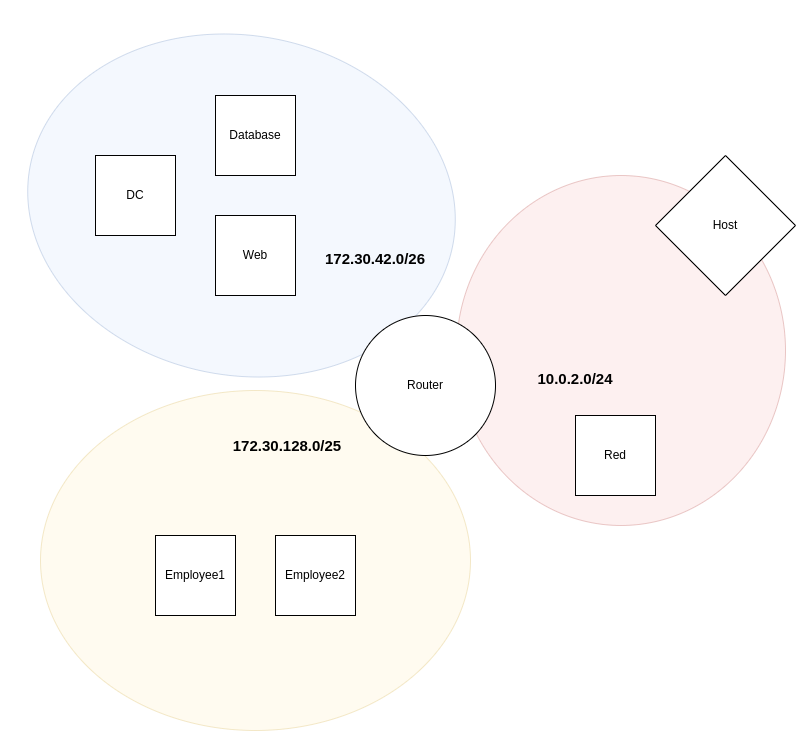
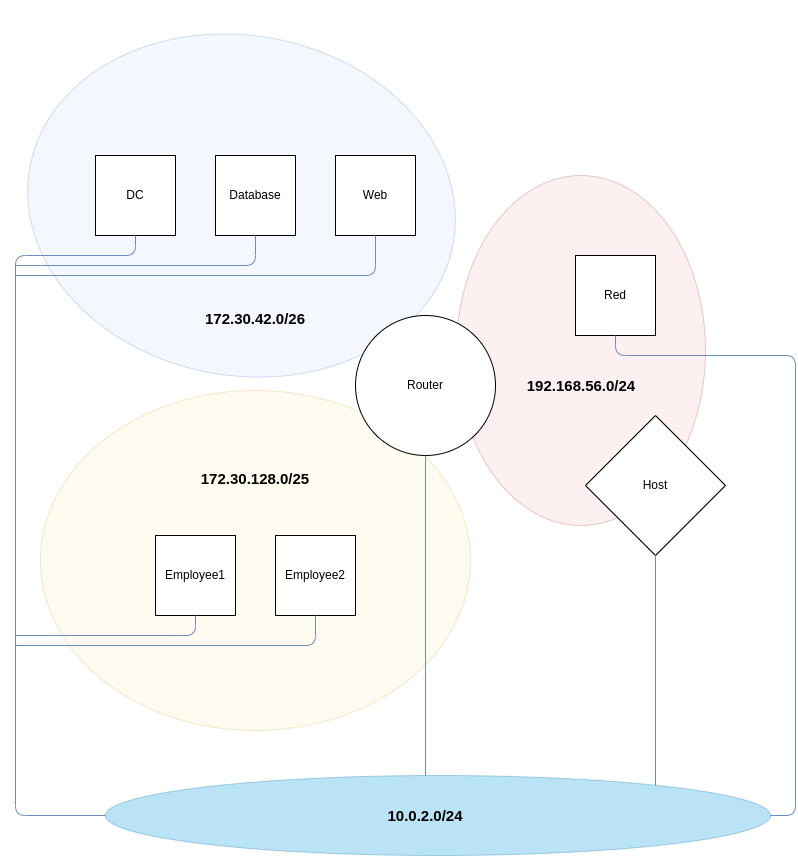
Updated documentation

diff --git a/README.md b/README.md
@@ -22,7 +22,7 @@ The network consists of 2 company-LANs, attached to a router:
     * Addresses in network    - 64
     * Network range           - 172.30.42.0 - 172.30.42.63
     * Usable range            - 172.30.42.1 - 172.30.42.62
-* a LAN network for the employees - 172.30.128.0/25: DHCP + DNS for these networks is provided by the router.
+* a LAN network for the employees - 172.30.128.0/25: DHCP for these networks is provided by the router. This network is located behind a NAT.
     * Network address         - 172.30.128.0
     * Network mask            - 255.255.255.128
     * Network mask (bits)     - 25
@@ -31,8 +31,18 @@ The network consists of 2 company-LANs, attached to a router:
     * Network range           - 172.30.128.0 - 172.30.128.127
     * Usable range            - 172.30.128.1 - 172.30.128.126
 
-The router itself also has an uplink to the Host OS. It is considered as the WAN entry point of the company network. This host-only network can also be used to connect a Kali VM to attack the company premises. DHCP is coming from VirtualBox for this network.
-* WAN network: 10.0.2.0/24
+The router itself also has an uplink to the host OS. It is considered as the WAN entry point of the company network. This host-only network can also be used to connect a Kali VM to attack the company premises. DHCP is coming from VirtualBox for this network.
+* 192.168.56.0/24: DHCP is provided by the WAN provider
+    * Network address         - 192.168.56.0
+    * Network mask            - 255.255.255.0
+    * Network mask (bits)     - 24
+    * Broadcast address       - 192.168.56.255
+    * Addresses in network    - 256
+    * Network range           - 192.168.56.0 - 192.168.56.255
+    * Usable range            - 192.168.56.1 - 192.168.56.254
+
+VirtualBox also provides a management network, so the hosts can download software from the internet and are accessible by SSH. This network is located behind a NAT.
+* Management network: 10.0.2.0/24
     * Network address         - 10.0.2.0
     * Network mask            - 255.255.255.0
     * Network mask (bits)     - 24
@@ -43,17 +53,17 @@ The router itself also has an uplink to the Host OS. It is considered as the WAN
 
 ## Machines overview
 
-Name      | Network   | IP                | prefixlength  | default gateway | Remarks
---------- | --------- | ----------------- | ------------- | --------------- | ---
-router    | outside   | DHCP              | 24            | ???             | Router of the environment
-router    | servers   | 172.30.42.1       | 26            | ???             | ^
-router    | employees | 172.30.128.1      | 25            | ???             | ^
-web       | servers   | 172.30.42.2       | 26            | 172.30.42.1     | Webserver
-database  | servers   | 172.30.42.3       | 26            | 172.30.42.1     | Lightweight MySQL Database
-employee1 | employees | DHCP              | 25            | 172.30.128.1    | Ubuntu
-red       | employees | DHCP              | 25            | 172.30.128.1    | Kali outside the network
-dc        | servers   | 172.30.42.4       | 26            | 172.30.42.1     | Windows AD server core with domain
-employee2 | employees | DHCP              | 25            | 172.30.128.1    | Windows 10 client (domain joined) 
+Name      | Network   | IP           | prefixlength | default gateway | Remarks
+--------- | --------- | ------------ | ------------ | --------------- | ---
+router    | uplink    | DHCP         | 24           | ???             | Router of the environment
+router    | servers   | 172.30.42.1  | 26           | ???             | ^
+router    | employees | 172.30.128.1 | 25           | ???             | ^
+web       | servers   | 172.30.42.2  | 26           | 172.30.42.1     | Webserver
+database  | servers   | 172.30.42.3  | 26           | 172.30.42.1     | Lightweight MySQL Database
+employee1 | employees | DHCP         | 25           | 172.30.128.1    | Ubuntu
+red       | employees | DHCP         | 25           | 172.30.128.1    | Kali outside the network
+dc        | servers   | 172.30.42.4  | 26           | 172.30.42.1     | Windows AD server core with domain
+employee2 | employees | DHCP         | 25           | 172.30.128.1    | Windows 10 client (domain joined) 
 
 
 # Vragen voor de omgeving
@@ -107,8 +117,6 @@ OF
 ## Les 7 
 
 - Bouw een SOC uit door security onion te installeren in een nieuwe virtuele machine.
-
-
 
 ## Users
 * Thomas Clauwaert
